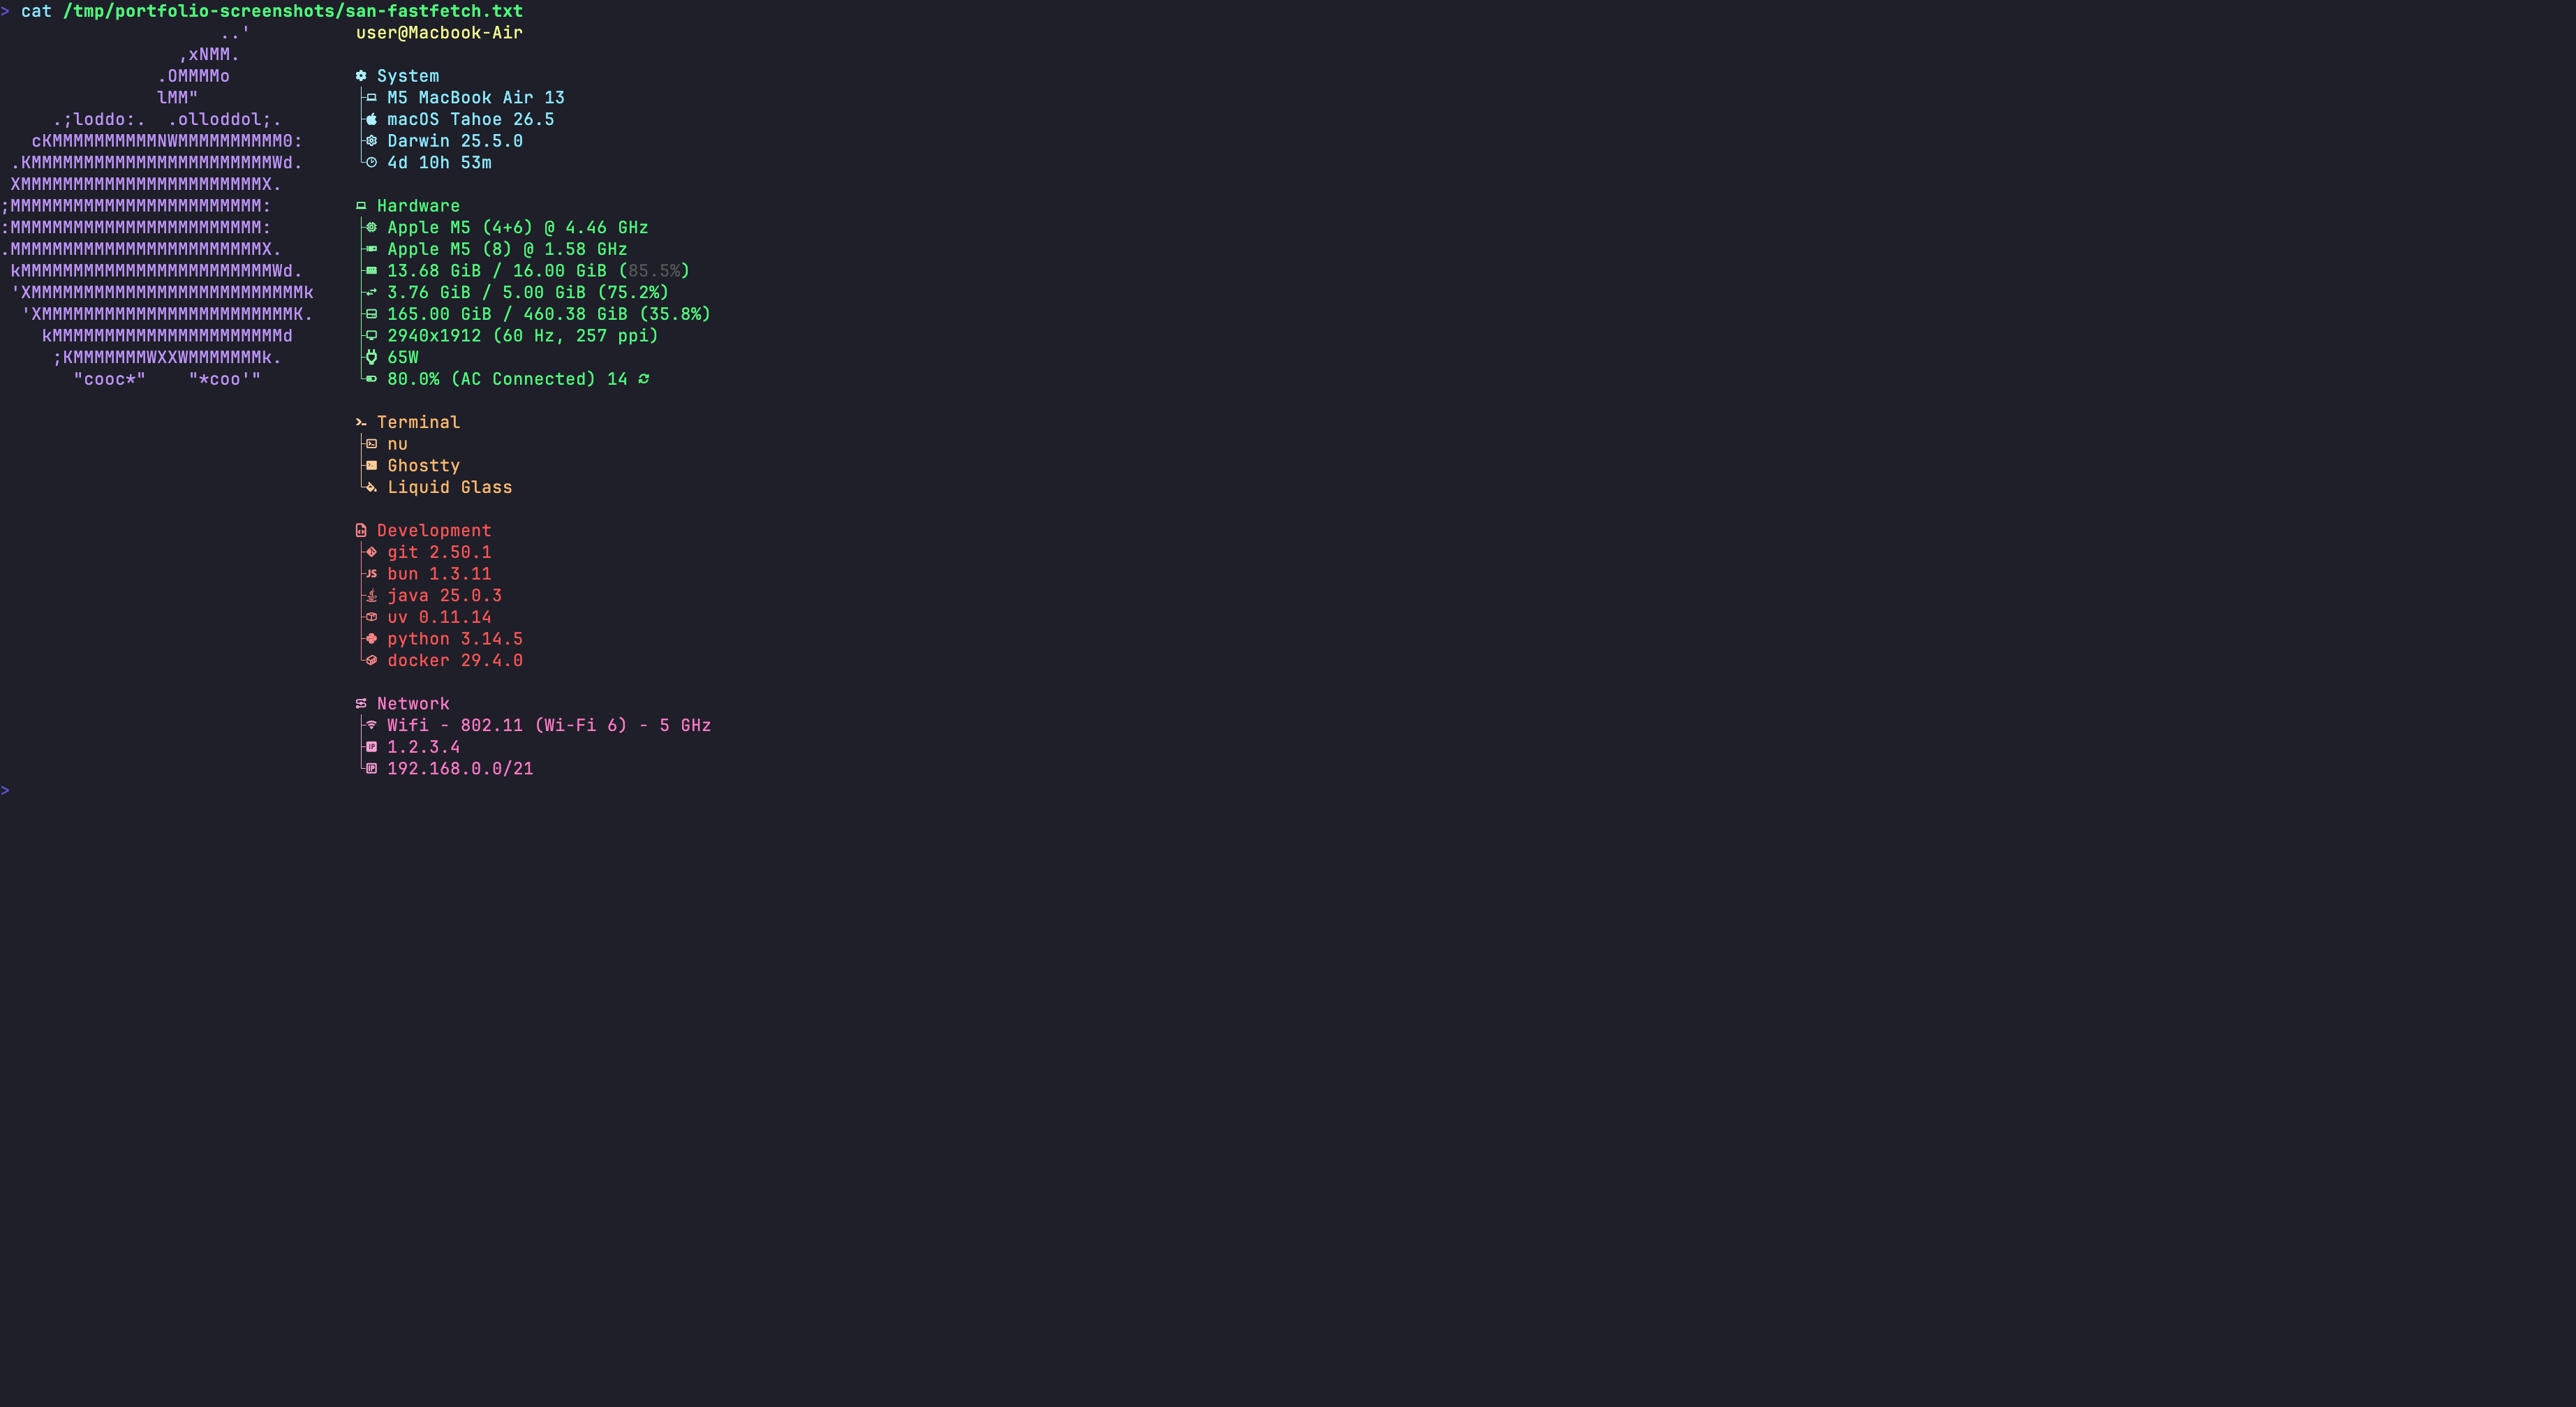
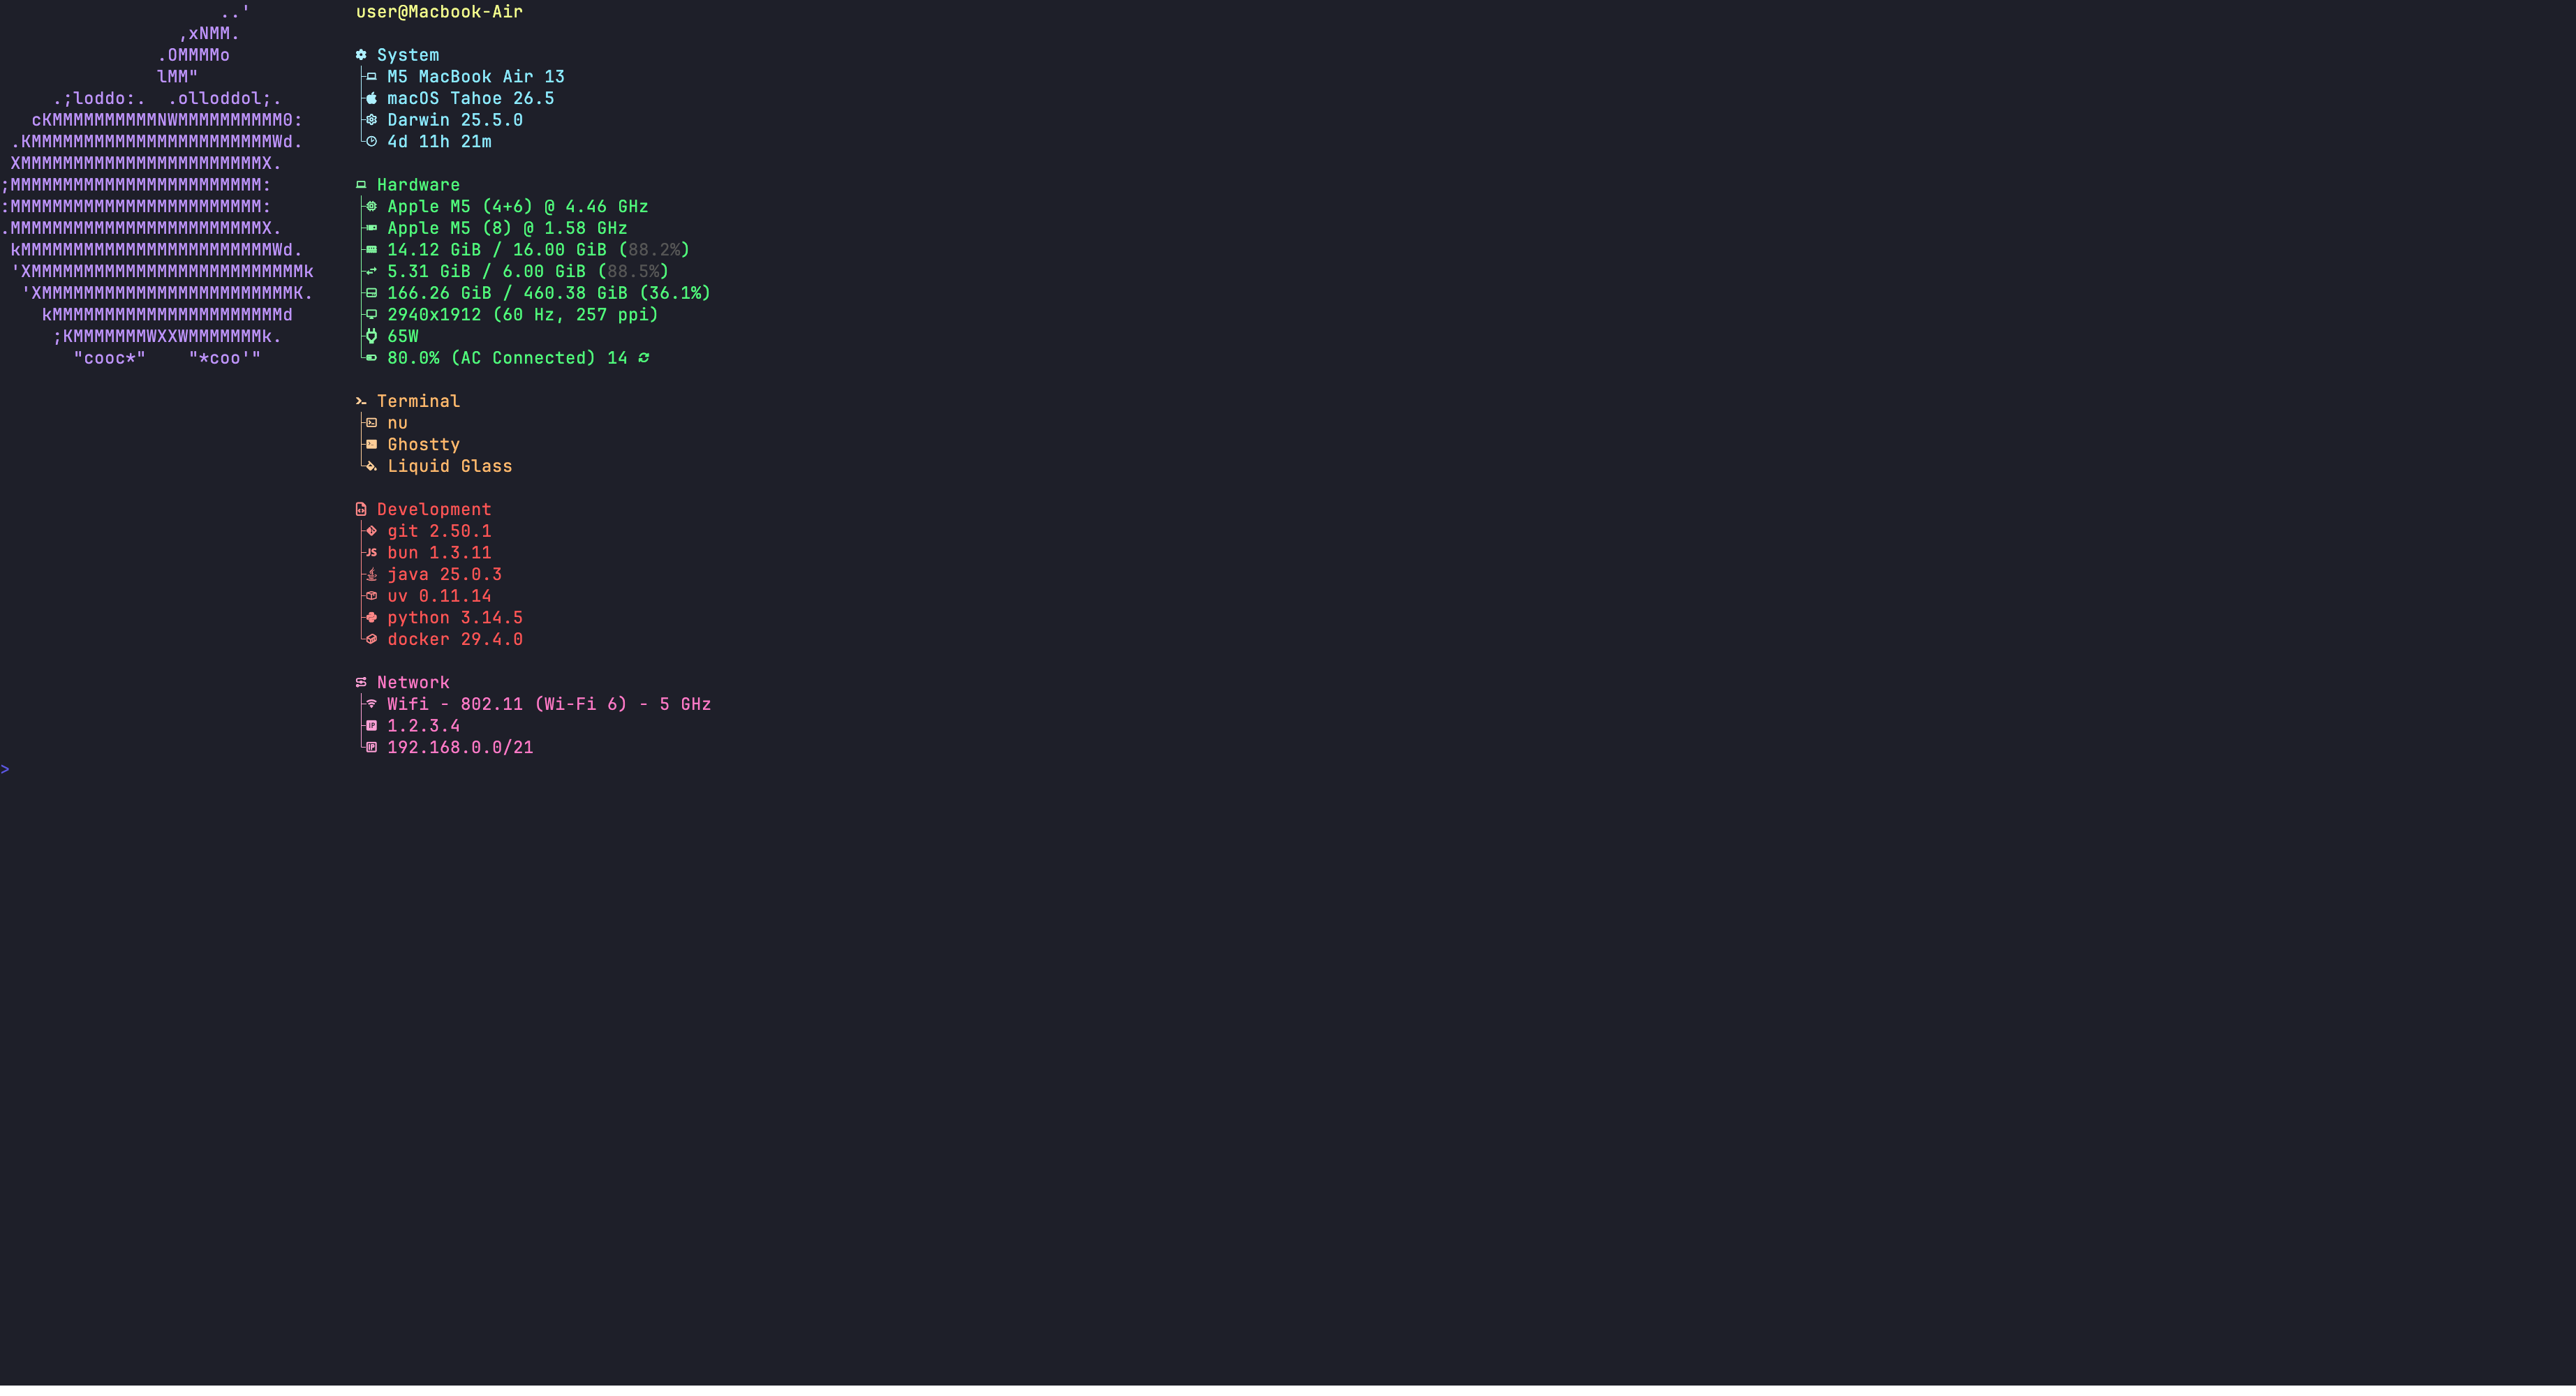
fix: crop command input lines from fastfetch and starship screenshots
- Starship: crop at y=30, height=35 to capture only the prompt line
  - Rows 0-29 contain nushell prompt + cat command (cropped out)
  - Rows 30-65 contain the actual starship prompt output
  - Result: 3690x35 with clean borders
- Fastfetch: crop at y=30 to remove command input line at top
  - Rows 0-29 contain nushell prompt + cat command (cropped out)
  - Result: 3690x2000 with content starting cleanly
- All screenshots verified: colored, sanitized, zero leaks

Changed region(s): [[0.0, 0.0, 0.2805, 0.558], [0.0, 0.992, 1.0, 1.0]]

diff --git a/scripts/capture-screenshots.py b/scripts/capture-screenshots.py
@@ -298,6 +298,12 @@ Sleep 0.5s
 Type "cat {sf}"
 Enter
 Sleep 3s""", w=3840, h=2160, fs=24, shell="nu")
+# Crop fastfetch to remove command input line at top
+src = OUT / "fastfetch.png"
+if src.exists():
+    cropped = TMP / "fastfetch-cropped.png"
+    crop_png(src, cropped, 30, 2000, 3690)
+    subprocess.run(["mv", str(cropped), str(src)])
 
 # ============================================================
 # 2. starship — capture prompt, strip first/last lines (4K)
@@ -310,11 +316,11 @@ Sleep 0.5s
 Type "cat {sf}"
 Enter
 Sleep 3s""", w=3840, h=2160, fs=24, shell="nu")
-# Crop starship to just the prompt line (skip shell prompt above)
+# Crop starship to just the prompt line (skip command input above)
 src = OUT / "starship.png"
 if src.exists():
     cropped = TMP / "starship-cropped.png"
-    crop_png(src, cropped, 15, 60, 3690)
+    crop_png(src, cropped, 30, 35, 3690)
     subprocess.run(["mv", str(cropped), str(src)])
 
 # ============================================================